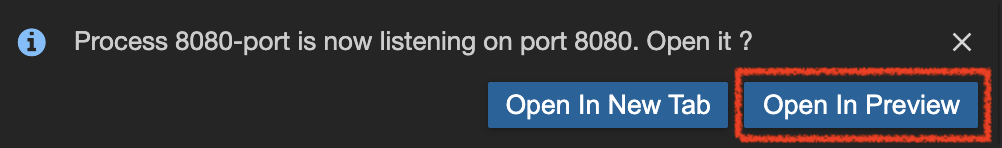
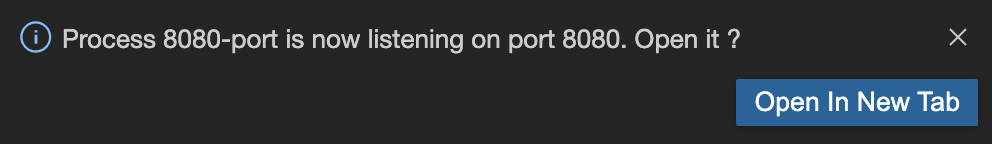
[CI] Publish Documentation for 3e1214c2d120439bba6005fa0b4f79803d925263 - 3e1214c2d120439bba6005fa0b4f79803d925263 🚀

Changed region(s): [[0.4688, 0.4444, 1.0, 0.9722], [0.0, 0.1389, 0.75, 0.3889], [0.9375, 0.2222, 0.9688, 0.3611]]

diff --git a/inner-loop/6.2/catalog-spring-boot.html b/inner-loop/6.2/catalog-spring-boot.html
@@ -198,7 +198,10 @@ are already made by Spring Boot so that you can get started with minimum effort 
 <div class="sectionbody">
 <div class="paragraph">
 <p>The <strong>catalog-spring-boot</strong> project has the following structure which shows the components of
-the Spring Boot project laid out in different subdirectories according to Maven best practices:</p>
+the Spring Boot project laid out in different subdirectories according to Maven best practices.</p>
+</div>
+<div class="paragraph">
+<p>For the duration of this lab you will be working in the <strong>catalog-spring-boot</strong> directories shown below:</p>
 </div>
 <div class="imageblock">
 <div class="content">
@@ -211,7 +214,7 @@ to a database. This project currently contains no code other than the main class
 which is there to bootstrap the Spring Boot application.</p>
 </div>
 <div class="paragraph">
-<p><code><strong>Examine 'com.redhat.cloudnative.catalog.CatalogApplication' class</strong></code> in the <strong>/projects/workshop/labs/catalog-spring-boot/src/main</strong> directory:</p>
+<p><code><strong>Examine 'com.redhat.cloudnative.catalog.CatalogApplication' class</strong></code> in the <strong>labs/catalog-spring-boot/src/main</strong> directory:</p>
 </div>
 <div class="listingblock">
 <div class="content">
@@ -231,7 +234,7 @@ public class CatalogApplication {
 </div>
 <div class="paragraph">
 <p>The database is configured using the Spring application configuration file which is located at
-<strong>/projects/workshop/labs/catalog-spring-boot/src/main/resources/application.properties</strong>. Examine this file to see the database connection details
+<strong>src/main/resources/application.properties</strong>. Examine this file to see the database connection details
 and note that an in-memory H2 database is used in this lab for local development and will be replaced
 with a PostgreSQL database in the following labs. Be patient! More on that later.</p>
 </div>
@@ -250,7 +253,7 @@ RESTful endpoint to create the Catalog service:</p>
 <h2 id="create_domain_model"><a class="anchor" href="#create_domain_model"></a>Create the Domain Model</h2>
 <div class="sectionbody">
 <div class="paragraph">
-<p>In your <a href="http://devspaces.%APPS_HOSTNAME_SUFFIX%" class="params-link" target="_blank" rel="noopener">Workspace</a>, <code><strong>create the '/projects/workshop/labs/catalog-spring-boot/src/main/java/com/redhat/cloudnative/catalog/Product.java' file</code></strong></p>
+<p>In your <a href="http://devspaces.%APPS_HOSTNAME_SUFFIX%" class="params-link" target="_blank" rel="noopener">Workspace</a>, <code><strong>create the 'src/main/java/com/redhat/cloudnative/catalog/Product.java' file</code></strong></p>
 </div>
 <div class="listingblock copypaste">
 <div class="content">
@@ -355,7 +358,7 @@ and extend <a href="https://docs.spring.io/spring-data/commons/docs/current/api/
 </div>
 <div class="paragraph">
 <p>In your <a href="http://devspaces.%APPS_HOSTNAME_SUFFIX%" class="params-link" target="_blank" rel="noopener">Workspace</a>,
-<code><strong>create the '/projects/workshop/labs/catalog-spring-boot/src/main/java/com/redhat/cloudnative/catalog/ProductRepository.java' file</code></strong>.</p>
+<code><strong>create the 'src/main/java/com/redhat/cloudnative/catalog/ProductRepository.java' file</code></strong>.</p>
 </div>
 <div class="listingblock copypaste">
 <div class="content">
@@ -391,7 +394,7 @@ a new Java class named <strong>CatalogController</strong> in <strong>com.redhat.
 </div>
 <div class="paragraph">
 <p>In your <a href="http://devspaces.%APPS_HOSTNAME_SUFFIX%" class="params-link" target="_blank" rel="noopener">Workspace</a>,
-<code><strong>create the '/projects/workshop/labs/catalog-spring-boot/src/main/java/com/redhat/cloudnative/catalog/CatalogController.java' file</code></strong>.</p>
+<code><strong>create the 'src/main/java/com/redhat/cloudnative/catalog/CatalogController.java' file</code></strong>.</p>
 </div>
 <div class="listingblock copypaste">
 <div class="content">
@@ -545,7 +548,7 @@ To open a '&gt;_ workshop_tools' terminal window, <code><strong>click on 'Termin
 </div>
 </div>
 <div class="paragraph">
-<p>When pop-ups appear, <strong>confirm you want to expose the 8080 port</strong> by <code><strong>clicking on 'Open in Preview'</strong></code>.</p>
+<p>When pop-ups appear, <strong>confirm you want to expose the 8080 port</strong> by <code><strong>clicking on 'Open in New Tab'</strong></code>.</p>
 </div>
 <div class="imageblock">
 <div class="content">
@@ -553,7 +556,7 @@ To open a '&gt;_ workshop_tools' terminal window, <code><strong>click on 'Termin
 </div>
 </div>
 <div class="paragraph">
-<p>Your browser will be redirect on <strong>your Catalog Service running inside your Workspace</strong>.</p>
+<p>Your browser will be directed to <strong>your Catalog Service running inside your Workspace</strong>.</p>
 </div>
 <div class="imageblock">
 <div class="content">
@@ -567,9 +570,6 @@ To open a '&gt;_ workshop_tools' terminal window, <code><strong>click on 'Termin
 <i class="fa icon-note" title="Note"></i>
 </td>
 <td class="content">
-<div class="paragraph">
-<p>If you have the following result on the 'Preview' window, please <code><strong>click on the refresh icon of this same window</code></strong>,</p>
-</div>
 <div class="imageblock">
 <div class="content">
 <img src="_images/che-preview-na.png" alt="Che - Preview Not Available" width="500">

diff --git a/inner-loop/6.2/inventory-quarkus.html b/inner-loop/6.2/inventory-quarkus.html
@@ -443,7 +443,7 @@ To open a '&gt;_ workshop_tools' terminal window, <code><strong>click on 'Termin
 </div>
 </div>
 <div class="paragraph">
-<p>When pop-ups appear, <strong>confirm you want to expose the 8080 port</strong> by <code><strong>clicking on 'Open in Preview'</strong></code>.</p>
+<p>When pop-ups appear, <strong>confirm you want to expose the 8080 port</strong> by <code><strong>clicking on 'Open in New Tab'</strong></code>.</p>
 </div>
 <div class="imageblock">
 <div class="content">
@@ -451,7 +451,7 @@ To open a '&gt;_ workshop_tools' terminal window, <code><strong>click on 'Termin
 </div>
 </div>
 <div class="paragraph">
-<p>Your browser will be redirect on <strong>your Inventory Service running inside your Workspace</strong>.</p>
+<p>Your browser will be directed to <strong>your Inventory Service running inside your Workspace</strong>.</p>
 </div>
 <div class="imageblock">
 <div class="content">
@@ -466,12 +466,30 @@ To open a '&gt;_ workshop_tools' terminal window, <code><strong>click on 'Termin
 </td>
 <td class="content">
 <div class="paragraph">
-<p>If you have the following result on the 'Preview' window, please <code><strong>click on the refresh icon of this same window</code></strong>,</p>
+<p>If you have the following result in the browser window, please <code><strong>click on the browser Refresh icon</code></strong>,</p>
 </div>
 <div class="imageblock">
 <div class="content">
 <img src="_images/che-preview-na.png" alt="Che - Preview Not Available" width="500">
 </div>
+</div>
+</td>
+</tr>
+</table>
+</div>
+<div class="admonitionblock note">
+<table>
+<tr>
+<td class="icon">
+<i class="fa icon-note" title="Note"></i>
+</td>
+<td class="content">
+<div class="paragraph">
+<p>Please don&#8217;t close that Inventory output browser tab, you will need it for the next few steps of this lab.</p>
+</div>
+<div class="paragraph">
+<p>If by accident you close that browser tab then you should be able to reopen it from your browser history.
+It will likely be called <strong>Inventory Service</strong></p>
 </div>
 </td>
 </tr>
@@ -697,7 +715,7 @@ for example <strong>/api/inventory/329299</strong> with
 the last path param being the product id which we want to check its inventory status.</p>
 </div>
 <div class="paragraph">
-<p><code><strong>Refresh your browser and click on 'Test it'</strong></code>. You should have the following output:</p>
+<p><code><strong>Refresh your Inventory output browser and click on 'Test it'</strong></code>. You should have the following output:</p>
 </div>
 <div class="listingblock">
 <div class="content">
@@ -1090,7 +1108,8 @@ in one or more pods. A pod is the unit of runtime deployment and consists of the
 </div>
 </div>
 <div class="paragraph">
-<p>Well done! You are ready to move on to the next lab.</p>
+<p>Well done! You are ready to move on to the next lab, but before you go, you probably should close those
+Inventory Service output browser tabs.</p>
 </div>
 </div>
 </div>

diff --git a/inner-loop/6.2/gateway-dotnet.html b/inner-loop/6.2/gateway-dotnet.html
@@ -458,7 +458,10 @@ containers for the project.</p>
 </div>
 </div>
 <div class="paragraph">
-<p>Then <code><strong>click on 'Test it'</strong></code>. You should have an array of json output like this but with many more products:</p>
+<p>Then <code><strong>click on 'Test it'</strong></code>. You should have an array of json output like this but with many more products.</p>
+</div>
+<div class="paragraph">
+<p>Look in the json to see how the <strong>Gateway service</strong> has combined the <strong>product</strong> information together with the <strong>inventory</strong> (quantity) information:</p>
 </div>
 <div class="listingblock">
 <div class="content">

diff --git a/inner-loop/6.2/app-config.html b/inner-loop/6.2/app-config.html
@@ -668,8 +668,8 @@ if enabled, triggers hot reloading of beans or Spring context when changes are d
 </div>
 </div>
 <div class="paragraph">
-<p>When the Catalog container is ready, verify that the PostgreSQL database is being
-used. Check the Catalog pod logs:</p>
+<p>When the Catalog container is <strong>ready</strong>, verify that the PostgreSQL database is being
+used. Check the Catalog pod logs repeatedly:</p>
 </div>
 <div class="listingblock copypaste">
 <div class="content">

diff --git a/inner-loop/6.2/developer-workspace.html b/inner-loop/6.2/developer-workspace.html
@@ -373,7 +373,7 @@ Login successful.
 You have access to the following projects and can switch between them with 'odo project set &lt;project-name&gt;':
 
   * cn-project%USER_ID%
-    user%USER_ID%-devspaces
+    user%USER_ID% -devspaces
 
 Using project "cn-project%USER_ID%".
 
